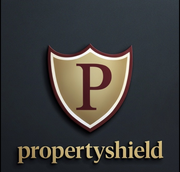
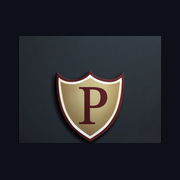
Update website branding and image assets for a more professional appearance
Updated favicons, logos, and the open graph image. Modified `client/index.html` to reference new assets and updated schema.org logo references in `client/index.html`.

Replit-Commit-Author: Agent
Replit-Commit-Session-Id: 26566966-0b85-45c9-900d-aef1035753f4
Replit-Commit-Checkpoint-Type: full_checkpoint
Replit-Commit-Event-Id: 351361e0-f7a2-45e9-85d1-e516a8e92fd0
Replit-Commit-Screenshot-Url: https://storage.googleapis.com/screenshot-production-us-central1/88836bf9-59a1-4c30-910c-40afa7bc3e65/26566966-0b85-45c9-900d-aef1035753f4/mkDveNi
Replit-Helium-Checkpoint-Created: true

diff --git a/client/index.html b/client/index.html
@@ -19,11 +19,11 @@
     <meta property="og:type" content="website" />
     <meta property="og:url" content="https://propertyshielduk.com/" />
     <meta property="og:site_name" content="PropertyShield UK Ltd" />
-    <meta property="og:image" content="https://propertyshielduk.com/logo.jpg" />
-    <meta property="og:image:secure_url" content="https://propertyshielduk.com/logo.jpg" />
-    <meta property="og:image:type" content="image/jpeg" />
-    <meta property="og:image:width" content="1080" />
-    <meta property="og:image:height" content="1080" />
+    <meta property="og:image" content="https://propertyshielduk.com/og-image.png" />
+    <meta property="og:image:secure_url" content="https://propertyshielduk.com/og-image.png" />
+    <meta property="og:image:type" content="image/png" />
+    <meta property="og:image:width" content="1200" />
+    <meta property="og:image:height" content="630" />
     <meta property="og:image:alt" content="PropertyShield UK Ltd shield logo and Darlington roofing services" />
 
     <meta name="twitter:card" content="summary_large_image" />
@@ -32,11 +32,12 @@
       name="twitter:description"
       content="Trusted Darlington roofers for roof repairs, re-roofing, chimney work, flat roofs, and roofline services."
     />
-    <meta name="twitter:image" content="https://propertyshielduk.com/logo.jpg" />
+    <meta name="twitter:image" content="https://propertyshielduk.com/og-image.png" />
     <meta name="theme-color" content="#0D1018" />
 
     <link rel="icon" type="image/x-icon" href="/favicon.ico" />
-    <link rel="icon" type="image/png" sizes="32x32" href="/favicon-32.png" />
+    <link rel="icon" type="image/png" sizes="48x48" href="/favicon-48.png" />
+    <link rel="icon" type="image/png" sizes="96x96" href="/favicon-96.png" />
     <link rel="icon" type="image/png" sizes="192x192" href="/favicon-192.png" />
     <link rel="apple-touch-icon" sizes="180x180" href="/apple-touch-icon.png" />
     <!-- Google tag (gtag.js) -->
@@ -74,8 +75,8 @@
         "@type": "RoofingContractor",
         "name": "PropertyShield UK Ltd",
         "url": "https://propertyshielduk.com",
-        "logo": "https://propertyshielduk.com/logo.jpg",
-        "image": "https://propertyshielduk.com/logo.jpg",
+        "logo": "https://propertyshielduk.com/logo-512.png",
+        "image": "https://propertyshielduk.com/logo-512.png",
         "email": "propertyshield128@gmail.com",
         "telephone": ["+447753351619", "+447424376189"],
         "address": {
@@ -119,8 +120,8 @@
         "@type": "Organization",
         "name": "PropertyShield UK Ltd",
         "url": "https://propertyshielduk.com",
-        "logo": "https://propertyshielduk.com/logo.jpg",
-        "image": "https://propertyshielduk.com/logo.jpg",
+        "logo": "https://propertyshielduk.com/logo-512.png",
+        "image": "https://propertyshielduk.com/logo-512.png",
         "email": "propertyshield128@gmail.com",
         "telephone": "+447753351619",
         "sameAs": [
